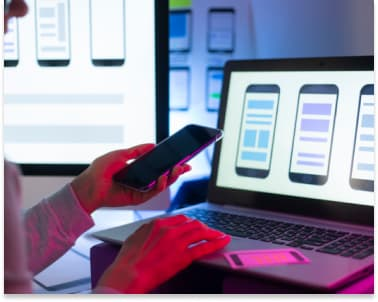
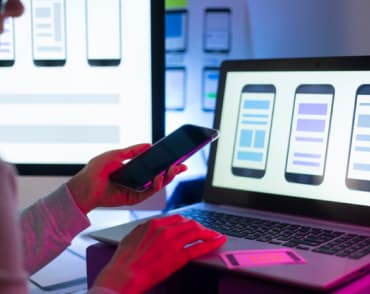
домашня робота 3

diff --git a/css/style.css b/css/style.css
@@ -10,15 +10,24 @@
   --sectionbackground: #f5f5f5;
   --avtivebackgroudbtn: #188ce8;
 }
-h1,h2,h3,h4,h5,h6,p{
+h1,
+h2,
+h3,
+h4,
+h5,
+h6,
+p {
   margin: 0;
 }
-ul,ol{
+ul,
+ol {
   margin: 0;
   padding-left: 0;
 }
 img {
   display: block;
+  max-width: 100%;
+  height: auto;
 }
 .visually-hidden {
   position: absolute;
@@ -52,14 +61,18 @@ body {
   padding-right: 15px;
   margin: 0 auto;
   /* border: 1px solid tomato; */
-  }
+}
+section{
+  padding-top: 94px;
+  padding-bottom: 94px;
+}
 
 /* /---------------HEADER------------/ */
 .header {
   background: var(--mainbackdroundcolor);
   padding-top: 24px;
   padding-bottom: 25px;
-  border: 1px solid #ECECEC;
+  border-bottom: 1px solid #ececec;
 }
 .header-conteiner {
   display: flex;
@@ -83,7 +96,7 @@ body {
 .logo-span {
   color: var(--logo-color);
 }
-.logo-box{
+.logo-box {
   margin-right: 93px;
 }
 
@@ -95,6 +108,9 @@ body {
 .nav-item {
 }
 .nav-link {
+  padding-top: 32px;
+  padding-bottom: 32px;
+
   font-weight: 500;
   font-size: 14px;
   line-height: 1.14;
@@ -117,6 +133,9 @@ body {
 .header-item {
 }
 .header-link {
+  padding-top: 32px;
+  padding-bottom: 32px;
+
   font-weight: 500;
   font-size: 14px;
   line-height: 1.14;
@@ -134,10 +153,10 @@ body {
 }
 /* /------------------HERO-----------/ */
 .hero {
-    background: var(--footerbackground);
-    text-align: center;
-    padding-top: 200px;
-    padding-bottom: 200px;
+  background: var(--footerbackground);
+  text-align: center;
+  padding-top: 200px;
+  padding-bottom: 200px;
 }
 
 .hero-title {
@@ -146,7 +165,7 @@ body {
   margin-left: auto;
   margin-right: auto;
   text-align: center;
-   
+
   font-style: normal;
   font-weight: 900;
   font-size: 44px;
@@ -157,14 +176,12 @@ body {
 }
 
 .hero-btn {
-  
   max-height: 50px;
   min-width: 216px;
   border: 1px solid transparent;
   border-radius: 4px;
   padding: 10px 32px;
-  
-  
+
   font-family: inherit;
   font-style: normal;
   font-weight: 700;
@@ -187,11 +204,11 @@ body {
 }
 
 .benefits-list {
-  display:flex;
+  display: flex;
   justify-items: center;
   gap: 30px;
-  padding-top: 94px;
-  padding-bottom: 94px;
+  /* padding-top: 94px;
+  padding-bottom: 94px; */
 }
 
 .benefits-item {
@@ -213,7 +230,7 @@ body {
 }
 /* /----------------РОБОТА---------------/ */
 .work-title {
-   margin-bottom: 50px;
+  margin-bottom: 50px;
 
   font-size: 36px;
   line-height: 1.16;
@@ -223,22 +240,21 @@ body {
 
 .work-list {
   display: flex;
-  margin-bottom: 94px; 
+  /* margin-bottom: 94px; */
   margin-left: -15px;
 }
-
 
 .work-item {
   margin-right: 30px;
 }
-.work-item:last-child{
+.work-item:last-child {
   margin-right: 0px;
 }
 /* /------------КОМАНДА----------/ */
 .team {
   background: var(--sectionbackground);
-  padding-top: 94px;
-  padding-bottom: 94px;
+  /* padding-top: 94px;
+  padding-bottom: 94px; */
 }
 
 .team-title {
@@ -256,12 +272,11 @@ body {
 }
 
 .team-item {
-    background: var(--mainbackdroundcolor);
+  background: var(--mainbackdroundcolor);
 }
 
 .team-item-title {
   margin-bottom: 10px;
-  margin-top: 30px;
   font-weight: 500;
   font-size: 16px;
   line-height: 1.19;
@@ -270,10 +285,22 @@ body {
 }
 
 .team-item-text {
+  /* box-shadow: 0px 1px 3px rgba(0, 0, 0, 0.12), 
+  0px 1px 1px rgba(0, 0, 0, 0.14),
+   0px 2px 1px rgba(0, 0, 0, 0.2);
+  border-radius: 0px 0px 4px 4px; */
+
   font-size: 16px;
   line-height: 1.19;
   text-align: center;
   color: var(--text-color);
+}
+.team-box {
+  padding-top: 30px;
+  padding-bottom: 30px;
+  box-shadow: 0px 1px 3px rgba(0, 0, 0, 0.12), 0px 1px 1px rgba(0, 0, 0, 0.14),
+    0px 2px 1px rgba(0, 0, 0, 0.2);
+  border-radius: 0px 0px 4px 4px;
 }
 /* /-----------------FOOTER--------------/ */
 .footer {
@@ -340,11 +367,13 @@ body {
 }
 /* /----------------Portfolio--------------------/ */
 .portfolio {
- }
+  /* padding-top: 94px;
+  padding-bottom: 94px; */
+}
 
 .btn-sortlist {
-  padding-top: 94px;
-  display:flex;
+  /* padding-top: 94px; */
+  display: flex;
   justify-content: center;
   gap: 30px;
 }
@@ -357,7 +386,6 @@ body {
   border: 1px solid transparent;
   max-height: 38px;
   padding: 6px 22px;
-
 
   font-family: inherit;
   font-weight: 500;
@@ -401,8 +429,10 @@ body {
   letter-spacing: 0.03em;
   color: var(--text-color);
 }
-.portfilio-box{
+.portfilio-box {
   max-width: 370px;
   min-height: 110px;
   padding: 20px 24px;
+  border: 1px solid #eeeeee;
+  border-top: none;
 }

diff --git a/index.html b/index.html
@@ -104,23 +104,31 @@
           <ul class="team-list list">
             <li class="team-item">
               <img src="./images/img_team_card_1.jpg" alt="product designer" width="270" height="260" />
+           <div class="team-box">
               <h3 class="team-item-title">Ігор Дем'яненко</h3>
               <p class="team-item-text" lang="en">Product Designer</p>
+           </div>
             </li>
             <li class="team-item">
               <img src="./images/img_team_card_2.jpg" alt="forntend developer" width="270" height="260" />
+             <div class="team-box">
               <h3 class="team-item-title">Ольга Рєпіна</h3>
               <p class="team-item-text" lang="en">Frontend Developer</p>
+             </div>
             </li>
             <li class="team-item">
               <img src="./images/img_team_card_3.jpg" alt="marketing" width="270" height="260" />
-              <h3 class="team-item-title">Микола Тарасов</h3>
-              <p class="team-item-text" lang="en">Marketing</p>
+<div class="team-box">
+                <h3 class="team-item-title">Микола Тарасов</h3>
+                <p class="team-item-text" lang="en">Marketing</p>
+</div>
             </li>
             <li class="team-item">
               <img src="./images/img_team_card_4.jpg" alt="ui desinger" width="270" height="260" />
+             <div class="team-box">
               <h3 class="team-item-title">Михайло Єрмаков</h3>
               <p class="team-item-text" lang="en">UI Designer</p>
+             </div>
             </li>
           </ul>
         </div>
